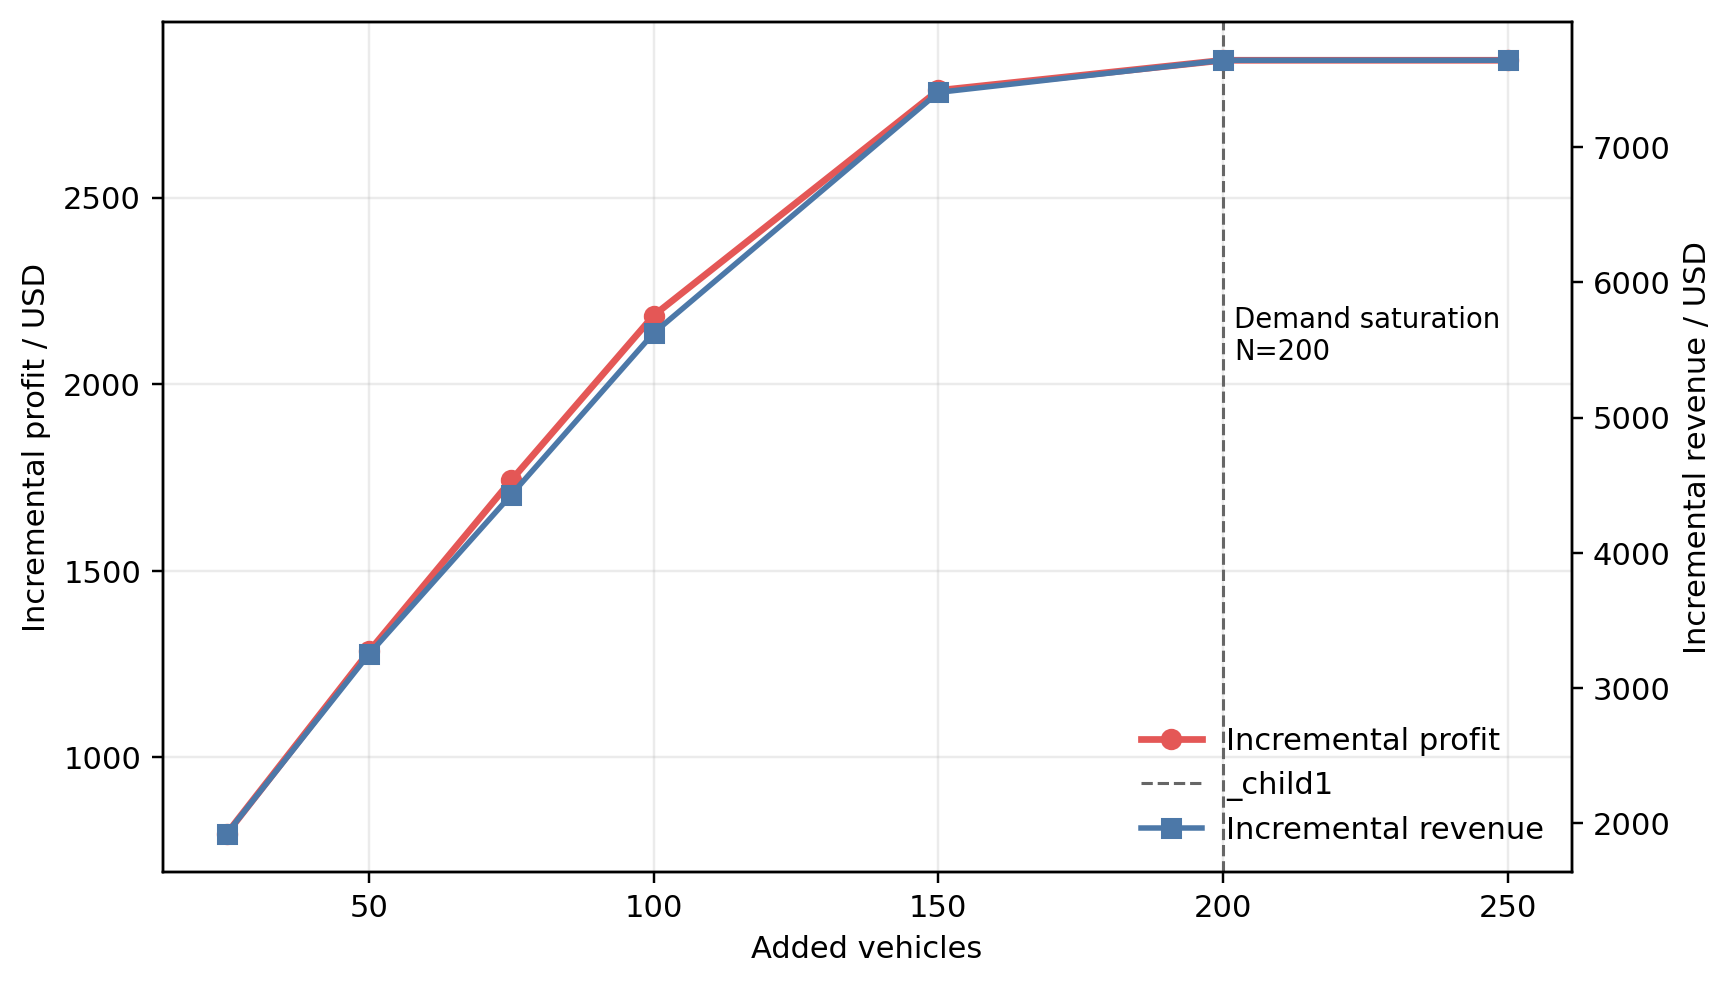
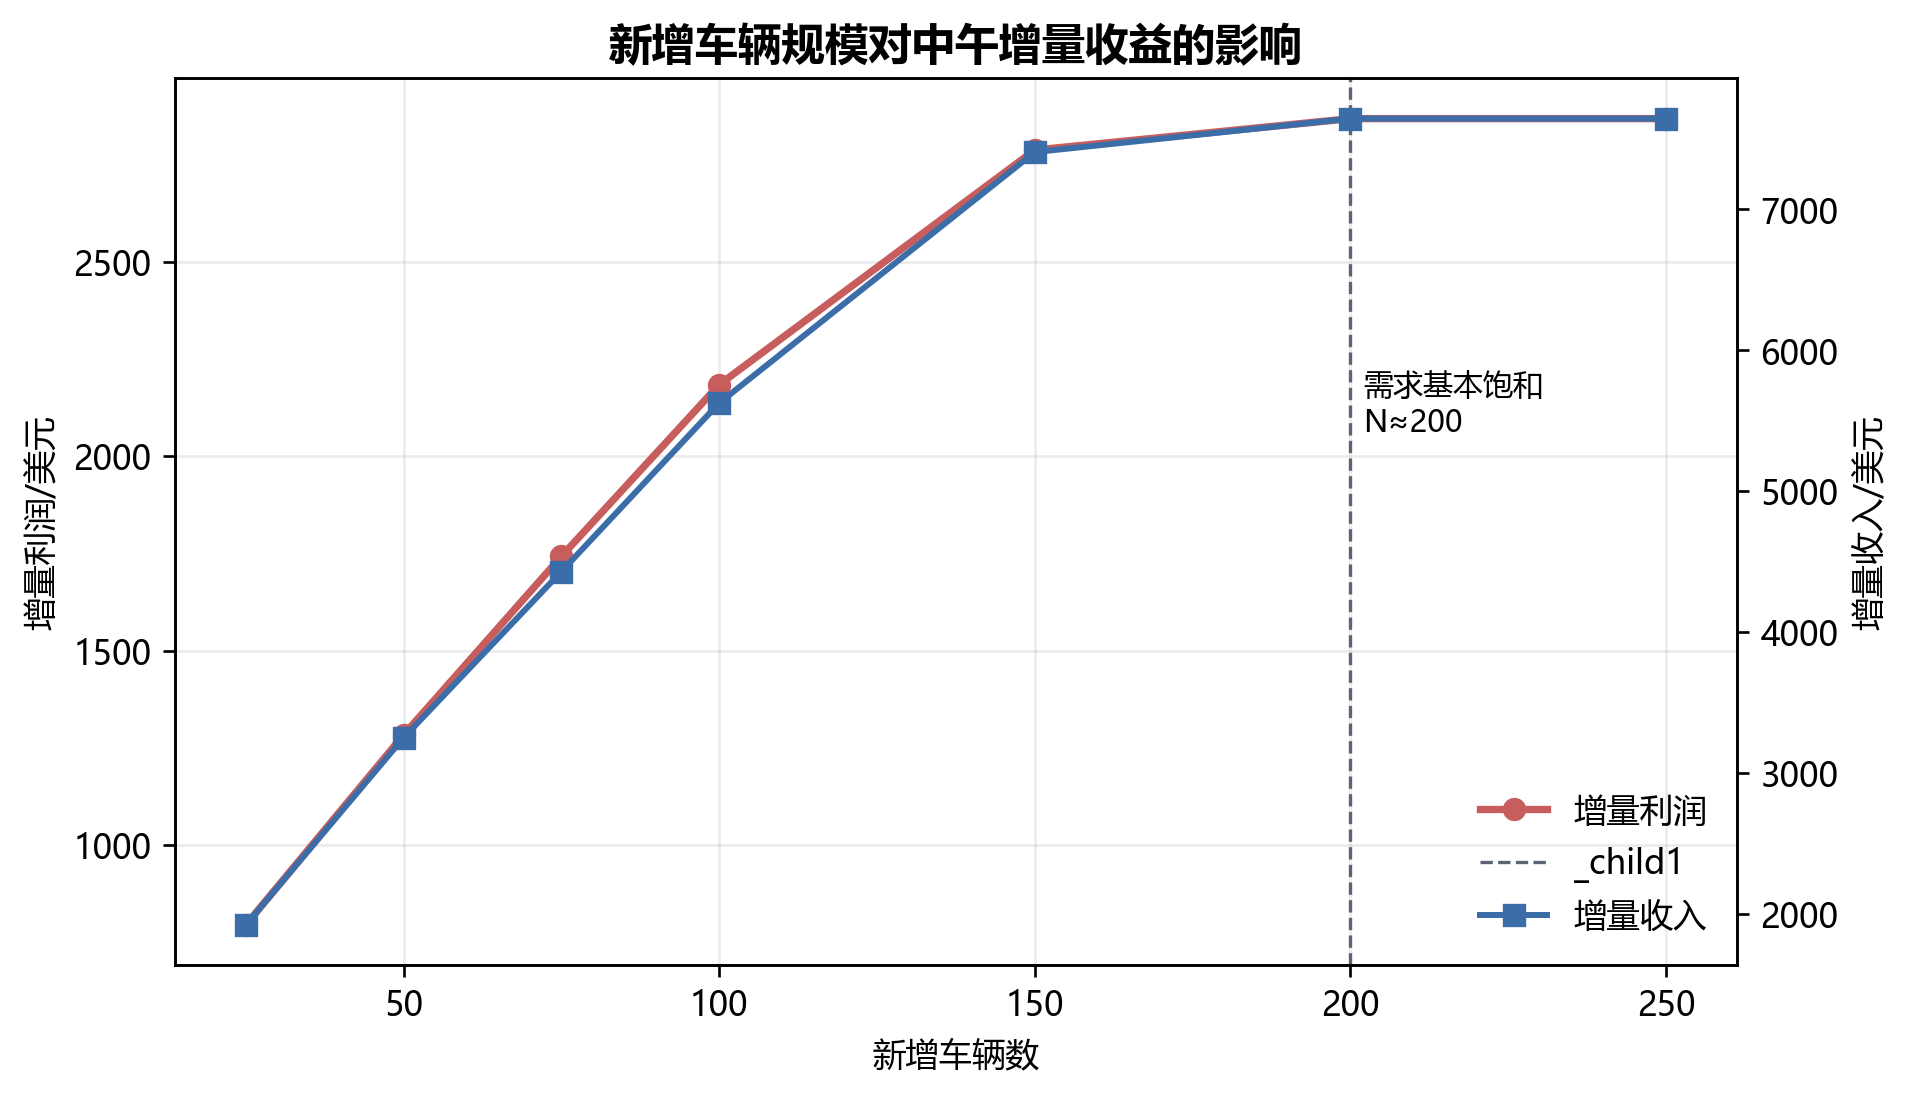
paper: improve layout and Chinese figures

diff --git a/paper/make_paper_figures_cn.py b/paper/make_paper_figures_cn.py
@@ -1,0 +1,126 @@
+# -*- coding: utf-8 -*-
+from pathlib import Path
+import re
+import numpy as np
+import pandas as pd
+import matplotlib.pyplot as plt
+import matplotlib as mpl
+from matplotlib.patches import FancyBboxPatch, FancyArrowPatch, Rectangle
+from matplotlib.gridspec import GridSpec
+
+root = Path(__file__).resolve().parents[1]
+figdir = root / 'paper' / 'figures'
+figdir.mkdir(parents=True, exist_ok=True)
+
+mpl.rcParams['font.sans-serif'] = ['Microsoft YaHei', 'SimHei', 'SimSun']
+mpl.rcParams['axes.unicode_minus'] = False
+mpl.rcParams['figure.dpi'] = 120
+
+COL = {'blue':'#3B6EA8','teal':'#4AA3A2','green':'#6FA76F','gold':'#E1B44C','red':'#C75D5D','purple':'#7E6AAD','gray':'#5B6472','ink':'#2D2D2D'}
+
+def clean(ax, axis='y'):
+    ax.spines['top'].set_visible(False); ax.spines['right'].set_visible(False)
+    ax.grid(True, axis=axis, alpha=0.18)
+
+def read_img(name):
+    return plt.imread(figdir/name)
+
+# 1 中文流程图：参考优秀论文的分层矩形图，弱化装饰感，突出四问衔接
+fig, ax = plt.subplots(figsize=(11.8, 5.8))
+ax.set_axis_off(); ax.set_xlim(0, 1); ax.set_ylim(0, 1)
+ax.text(0.5, 0.955, '约租车调度决策建模流程', ha='center', va='center', fontsize=18, weight='bold', color=COL['ink'])
+ax.text(0.5, 0.915, '从历史订单数据出发，依次完成需求预测、订单定价、车辆投放与基地选址', ha='center', va='center', fontsize=11, color=COL['gray'])
+
+# 左侧数据引擎
+ax.add_patch(Rectangle((0.035, 0.20), 0.245, 0.62, facecolor='#F7F7F7', edgecolor='#BFC7D1', linewidth=1.2, linestyle='--'))
+ax.text(0.158, 0.785, '数据与特征层', ha='center', fontsize=13, weight='bold')
+data_rows = [
+    ('黄车/绿车订单', '时空需求、费用、里程'),
+    ('FHV订单样本', '起终点、服务时长、拼车标记'),
+    ('TLC分区与OD', '区域编号、质心距离、派车时间'),
+    ('天气与日历', '温度、降水、星期、节假日'),
+    ('清洗聚合', '区域--小时需求面板')
+]
+for i, (title, desc) in enumerate(data_rows):
+    y = 0.695 - i * 0.095
+    ax.add_patch(Rectangle((0.058, y - 0.035), 0.199, 0.064, facecolor='white', edgecolor='#D6DCE4', linewidth=0.9))
+    ax.text(0.075, y + 0.010, title, ha='left', va='center', fontsize=10.5, weight='bold', color=COL['ink'])
+    ax.text(0.075, y - 0.017, desc, ha='left', va='center', fontsize=9, color=COL['gray'])
+
+# 右侧四问模型模块
+panel_specs = [
+    (0.335, 0.585, 0.260, 0.210, '#EAF2F8', COL['blue'], '问题一  需求预测', ['区域--小时面板', 'Poisson GBDT 与历史基线融合', '输出：$\\hat y_{i,t}$']),
+    (0.665, 0.585, 0.260, 0.210, '#FFF4D8', COL['gold'], '问题二  订单定价', ['出租车参考价迁移', '成本底线、竞争折扣、拼车约束', '输出：$p_k,\\pi_k$']),
+    (0.335, 0.285, 0.260, 0.210, '#FBECEC', COL['red'], '问题三  车辆投放', ['中午12时需求截面', '边际利润贪心整数分配', '输出：$n_i$ 与增量利润']),
+    (0.665, 0.285, 0.260, 0.210, '#EFEAF7', COL['purple'], '问题四  基地选址', ['业务价值权重 $w_i=D_i\\bar\\pi_i$', '穷举三基地 $p$-中位模型', '输出：最优基地集合 $B$'])
+]
+for x, y, w, h, fc, ec, title, rows in panel_specs:
+    ax.add_patch(Rectangle((x, y), w, h, facecolor=fc, edgecolor=ec, linewidth=1.3))
+    ax.add_patch(Rectangle((x, y + h - 0.052), w, 0.052, facecolor=ec, edgecolor=ec, linewidth=0))
+    ax.text(x + 0.014, y + h - 0.026, title, ha='left', va='center', fontsize=11.5, weight='bold', color='white')
+    for j, row in enumerate(rows):
+        ax.text(x + 0.020, y + h - 0.090 - j * 0.048, '• ' + row, ha='left', va='center', fontsize=9.8, color=COL['ink'])
+
+# 箭头关系
+arrow_kw = dict(arrowstyle='-|>', mutation_scale=15, linewidth=1.3, color='#59636F')
+ax.add_patch(FancyArrowPatch((0.280, 0.610), (0.335, 0.690), **arrow_kw))
+ax.add_patch(FancyArrowPatch((0.595, 0.690), (0.665, 0.690), **arrow_kw))
+ax.add_patch(FancyArrowPatch((0.795, 0.585), (0.795, 0.495), **arrow_kw))
+ax.add_patch(FancyArrowPatch((0.665, 0.390), (0.595, 0.390), **arrow_kw))
+ax.add_patch(FancyArrowPatch((0.465, 0.585), (0.465, 0.495), **arrow_kw))
+
+# 底部结果检验层
+ax.add_patch(Rectangle((0.335, 0.105), 0.590, 0.105, facecolor='#F7FAF7', edgecolor='#C9D9C9', linewidth=1.1, linestyle='--'))
+ax.text(0.360, 0.172, '结果检验与输出', ha='left', va='center', fontsize=12, weight='bold', color=COL['green'])
+ax.text(0.360, 0.132, '验证误差  |  定价经济性  |  车辆边际收益  |  基地方案对比  |  参数灵敏度', ha='left', va='center', fontsize=10.5, color=COL['ink'])
+ax.add_patch(FancyArrowPatch((0.795, 0.285), (0.795, 0.210), **arrow_kw))
+ax.add_patch(FancyArrowPatch((0.465, 0.285), (0.465, 0.210), **arrow_kw))
+
+fig.savefig(figdir/'model_framework.png', bbox_inches='tight', dpi=260)
+plt.close(fig)
+
+pred=pd.read_csv(root/'outputs/tables/pred_demand_2019_02_01_hourly.csv',parse_dates=['datetime_hour'])
+alloc=pd.read_csv(root/'outputs/tables/vehicle_allocation_12pm.csv')
+pricing=pd.read_csv(root/'outputs/tables/fhv_pricing_results.csv')
+base=pd.read_csv(root/'outputs/tables/base_location_results.csv')
+sens=pd.read_csv(root/'outputs/tables/sensitivity_analysis.csv')
+valid=pd.read_csv(root/'outputs/tables/node06_baseline_validation_predictions.csv',parse_dates=['datetime_hour'])
+
+# 2 EDA综合图：复用已有空间图 + 基于预测/验证表重画中文统计
+fig=plt.figure(figsize=(11.5,7.2)); gs=GridSpec(2,2,figure=fig,hspace=0.30,wspace=0.24)
+ax=fig.add_subplot(gs[0,0]); ax.imshow(read_img('brooklyn_total_demand_map.png')); ax.set_axis_off(); ax.set_title('布鲁克林需求空间分布',fontsize=13,weight='bold')
+ax=fig.add_subplot(gs[0,1]); top=pred.groupby('zone_name',as_index=False)['predicted_demand'].sum().sort_values('predicted_demand',ascending=False).head(12); ax.barh(top['zone_name'][::-1],top['predicted_demand'][::-1],color=COL['blue']); ax.set_title('2月1日预测需求最高区域',fontsize=13,weight='bold'); ax.set_xlabel('全天预测订单量'); clean(ax)
+ax=fig.add_subplot(gs[1,0]); hourly=pred.groupby(pred['datetime_hour'].dt.hour)['predicted_demand'].sum(); ax.plot(hourly.index,hourly.values,color=COL['red'],marker='o',linewidth=2); ax.axvline(12,color=COL['gray'],linestyle='--',linewidth=1); ax.set_title('预测日逐小时需求曲线',fontsize=13,weight='bold'); ax.set_xlabel('小时'); ax.set_ylabel('预测订单量'); clean(ax)
+ax=fig.add_subplot(gs[1,1]); vh=valid.groupby('datetime_hour',as_index=False).agg(actual=('pickup_count','sum'),baseline=('zone_weekday_hour_mean','sum'),recent=('recent_week_same_hour','sum')); ax.plot(vh['datetime_hour'],vh['actual'],label='真实值',color=COL['ink'],linewidth=1.8); ax.plot(vh['datetime_hour'],vh['baseline'],label='区域-星期-小时基线',color=COL['teal'],alpha=.85); ax.plot(vh['datetime_hour'],vh['recent'],label='上周同小时',color=COL['gold'],alpha=.85); ax.set_title('验证集总需求对比',fontsize=13,weight='bold'); ax.tick_params(axis='x',labelrotation=30,labelsize=8); ax.legend(frameon=False,fontsize=8); clean(ax)
+fig.suptitle('数据探索与需求预测依据：空间集中、时段周期和验证对比',fontsize=16,weight='bold',y=0.98)
+fig.savefig(figdir/'demand_eda_dashboard.png',bbox_inches='tight',dpi=240); plt.close(fig)
+
+# 3 预测热力图
+zones=pred.groupby('zone_name')['predicted_demand'].sum().sort_values(ascending=False).head(18).index.tolist(); heat=pred[pred['zone_name'].isin(zones)].copy(); heat['hour']=heat['datetime_hour'].dt.hour; mat=heat.pivot_table(index='zone_name',columns='hour',values='predicted_demand',aggfunc='sum').loc[zones]
+fig,ax=plt.subplots(figsize=(11.5,6.8)); im=ax.imshow(mat.values,aspect='auto',cmap='YlOrRd'); ax.set_xticks(np.arange(24)); ax.set_xticklabels(range(24),fontsize=8); ax.set_yticks(np.arange(len(zones))); ax.set_yticklabels(zones,fontsize=8.8); ax.set_xlabel('2019-02-01 小时'); ax.set_title('需求预测热力图：高需求区域在一天内的强弱变化',fontsize=15,weight='bold',pad=12); [sp.set_visible(False) for sp in ax.spines.values()]; cb=fig.colorbar(im,ax=ax,fraction=0.025,pad=0.015); cb.set_label('预测订单量'); fig.savefig(figdir/'forecast_heatmap.png',bbox_inches='tight',dpi=240); plt.close(fig)
+
+# 4 定价图
+fig=plt.figure(figsize=(11.5,4.8)); gs=GridSpec(1,3,figure=fig,width_ratios=[1.1,1.0,1.0],wspace=0.35)
+ax=fig.add_subplot(gs[0,0]); ax.scatter(pricing['taxi_reference_price'],pricing['fhv_price'],s=28,alpha=.7,color=COL['teal']); hi=max(pricing['taxi_reference_price'].max(),pricing['fhv_price'].max())*1.05; ax.plot([0,hi],[0,hi],color=COL['gray'],linestyle='--',linewidth=1); ax.set_xlim(0,hi); ax.set_ylim(0,hi); ax.set_title('参考价与FHV报价',fontsize=12,weight='bold'); ax.set_xlabel('出租车参考价/美元'); ax.set_ylabel('FHV报价/美元'); clean(ax)
+ax=fig.add_subplot(gs[0,1]); means=[pricing['taxi_reference_price'].mean(),pricing['fhv_price'].mean(),pricing['estimated_cost'].mean(),pricing['estimated_profit'].mean()]; labs=['参考价','FHV报价','估计成本','估计利润']; ax.bar(labs,means,color=[COL['blue'],COL['gold'],COL['gray'],COL['red']]); [ax.text(i,v+0.25,f'{v:.2f}',ha='center',fontsize=9) for i,v in enumerate(means)]; ax.set_title('单均经济性分解',fontsize=12,weight='bold'); ax.set_ylabel('美元/单'); clean(ax)
+ax=fig.add_subplot(gs[0,2]); ax.hist(pricing['estimated_profit_rate']*100,bins=14,color=COL['purple'],alpha=.78); ax.axvline(pricing['estimated_profit_rate'].mean()*100,color=COL['red'],linestyle='--',linewidth=1.5); ax.text(pricing['estimated_profit_rate'].mean()*100+1,ax.get_ylim()[1]*.82,'均值\n56.18%',color=COL['red'],fontsize=9); ax.set_title('成本口径利润率分布',fontsize=12,weight='bold'); ax.set_xlabel('利润率/%'); ax.set_ylabel('订单数'); clean(ax)
+fig.suptitle('FHV订单定价结果：竞争折扣与成本底线共同作用',fontsize=15,weight='bold',y=1.03); fig.savefig(figdir/'pricing_economics.png',bbox_inches='tight',dpi=240); plt.close(fig)
+
+# 5 车辆分配综合图 + sensitivity原图中文
+veh=sens[sens['analysis_type'].eq('vehicle_count')].copy(); veh['N']=veh['parameter'].str.extract(r'N=(\d+)').astype(int)
+fig=plt.figure(figsize=(11.5,5.6)); gs=GridSpec(1,2,figure=fig,width_ratios=[1.1,1.0],wspace=0.28)
+ax=fig.add_subplot(gs[0,0]); topa=alloc.sort_values('vehicles_N100',ascending=False).head(12); ax.barh(topa['zone_name'][::-1],topa['vehicles_N100'][::-1],color=COL['red']); ax.set_title('$N=100$时车辆主要投放区域',fontsize=13,weight='bold'); ax.set_xlabel('新增车辆数'); clean(ax)
+ax=fig.add_subplot(gs[0,1]); ax.plot(veh['N'],veh['estimated_incremental_profit'],marker='o',color=COL['red'],linewidth=2.2,label='增量利润'); ax.plot(veh['N'],veh['estimated_incremental_revenue'],marker='s',color=COL['blue'],linewidth=2,label='增量收入'); ax.axvline(200,color=COL['gray'],linestyle='--',linewidth=1); ax.set_title('车辆规模扩大后的边际收益递减',fontsize=13,weight='bold'); ax.set_xlabel('新增车辆数'); ax.set_ylabel('美元'); ax.legend(frameon=False); clean(ax)
+fig.suptitle('车辆投放结果：高收益区域优先，需求饱和后收益趋平',fontsize=15,weight='bold',y=1.02); fig.savefig(figdir/'vehicle_allocation_profit_panel.png',bbox_inches='tight',dpi=240); plt.close(fig)
+fig,ax1=plt.subplots(figsize=(8.4,4.8)); ax1.plot(veh['N'],veh['estimated_incremental_profit'],marker='o',linewidth=2.2,color=COL['red'],label='增量利润'); ax1.set_xlabel('新增车辆数'); ax1.set_ylabel('增量利润/美元'); ax1.grid(True,alpha=.25); ax1.axvline(200,color=COL['gray'],linestyle='--',linewidth=1); ax1.text(202,veh['estimated_incremental_profit'].max()*.72,'需求基本饱和\nN≈200',fontsize=9); ax2=ax1.twinx(); ax2.plot(veh['N'],veh['estimated_incremental_revenue'],marker='s',linewidth=1.8,color=COL['blue'],label='增量收入'); ax2.set_ylabel('增量收入/美元'); lines=ax1.get_lines()+ax2.get_lines(); ax1.legend(lines,[l.get_label() for l in lines],frameon=False,loc='lower right'); ax1.set_title('新增车辆规模对中午增量收益的影响',fontsize=13,weight='bold'); fig.savefig(figdir/'vehicle_profit_sensitivity.png',dpi=240,bbox_inches='tight'); plt.close(fig)
+
+# 6 基地对比与机制图
+fig,ax=plt.subplots(figsize=(9.5,5.2)); order=['optimal_p_median','geographic_kmeans_3','top_demand_3','random_3']; plot=base.set_index('scenario').loc[order].reset_index(); names={'optimal_p_median':'最优p-中位','geographic_kmeans_3':'地理KMeans','top_demand_3':'需求Top3','random_3':'随机方案'}; ax.bar([names[x] for x in plot['scenario']],plot['weighted_dispatch_time_cost'],color=[COL['green'],COL['teal'],COL['gold'],COL['gray']]); [ax.text(i,row['weighted_dispatch_time_cost']+1200,f"{row['weighted_dispatch_time_cost']:.0f}",ha='center',fontsize=10) for i,row in plot.iterrows()]; ax.set_ylabel('目标函数值（利润权重×分钟）'); ax.set_title('三基地选址方案对比：最优方案降低约28%',fontsize=15,weight='bold'); clean(ax); fig.savefig(figdir/'base_location_comparison.png',bbox_inches='tight',dpi=240); plt.close(fig)
+fig,ax=plt.subplots(figsize=(10.5,4.8)); ax.set_axis_off(); ax.set_xlim(0,1); ax.set_ylim(0,1); ax.text(0.5,0.93,'基地出发式特殊车型调度机制示意',ha='center',fontsize=16,weight='bold')
+items=[(0.08,0.52,'基地分区 B','车辆待命\n充电/换班',COL['purple']),(0.32,0.52,'需求分区 i','预测需求 $D_i$\n平均利润 $\\bar\\pi_i$',COL['blue']),(0.56,0.52,'接驾时间','$\\tau_{ji}$\n基地→上客区',COL['gold']),(0.80,0.52,'服务完成','订单收益\n车辆再平衡',COL['green'])]
+for x,y,title,body,color in items:
+    ax.add_patch(FancyBboxPatch((x,y-0.16),0.14,0.26,boxstyle='round,pad=0.018,rounding_size=0.015',facecolor=color+'22',edgecolor=color,linewidth=1.5)); ax.text(x+0.07,y+0.045,title,ha='center',fontsize=11,weight='bold'); ax.text(x+0.07,y-0.055,body,ha='center',va='center',fontsize=10)
+for x in [0.22,0.46,0.70]: ax.add_patch(FancyArrowPatch((x,0.52),(x+0.08,0.52),arrowstyle='-|>',mutation_scale=16,linewidth=1.5,color=COL['gray']))
+ax.text(0.5,0.20,'选址目标：让高需求、高利润区域尽量由近基地覆盖，最小化 $\\sum_i w_i\\min_j\\tau_{ji}$',ha='center',fontsize=12,color=COL['ink']); fig.savefig(figdir/'dispatch_mechanism.png',bbox_inches='tight',dpi=240); plt.close(fig)
+
+print('中文论文图已生成')

diff --git a/paper/main.tex b/paper/main.tex
@@ -13,6 +13,7 @@
 \usepackage{titlesec}
 \usepackage{fancyhdr}
 \usepackage{lastpage}
+\usepackage{etoolbox}
 
 \geometry{left=25mm,right=25mm,top=25mm,bottom=25mm}
 \graphicspath{{figures/}}
@@ -22,6 +23,10 @@
 \setlist[enumerate]{leftmargin=2.8em,itemsep=0.2em,topsep=0.2em}
 \hypersetup{colorlinks=true,linkcolor=black,citecolor=black,urlcolor=black}
 \captionsetup{font=small,labelfont=bf}
+\setlength{\tabcolsep}{4pt}
+\BeforeBeginEnvironment{tabular}{\small}
+\BeforeBeginEnvironment{tabularx}{\small}
+\renewcommand{\contentsname}{目录}
 \pagestyle{fancy}
 \fancyhf{}
 \fancyhead[C]{纽约约租车调度决策}
@@ -50,6 +55,9 @@
 \keywords{约租车调度；需求预测；动态定价；车辆分配；$p$-中位模型；边际利润}
 \end{abstract}
 
+\clearpage
+\tableofcontents
+\clearpage
 
 \section{问题重述}
 纽约市出租汽车与礼车委员会（Taxi and Limousine Commission, TLC）监管的出行市场由传统出租车和约租车共同构成。黄车、绿车订单记录了较完整的上车时间、下车时间、起终点区域、行程距离和费用信息；FHV（For-Hire Vehicle）约租车订单则主要记录派车基地、上下车时间和起终点区域。平台希望在有限车辆资源下，利用历史出行数据判断未来需求分布，制定具有竞争力且满足利润约束的订单价格，并进一步优化车辆投放和基地布局。
@@ -64,6 +72,7 @@
 
 上述四个问题构成一条由“市场需求”到“运营决策”的链条：问题一提供区域小时需求，问题二提供订单收益参数，问题三将需求和收益转化为短期车辆配置，问题四进一步给出长期基地布局。因而，本文的建模重点不仅是分别求解四个问题，还要保证前一问的输出能够以明确变量形式进入后一问，使整套方案具备一致的业务含义。
 
+\clearpage
 \section{问题分析与总体思路}
 题目给出的数据具有明显的时空异质性和业务链条特征。黄车和绿车数据记录了较完整的上下车时间、区域、里程和费用，可用于刻画布鲁克林出租车需求的时空分布以及出租车参考价格；FHV数据只包含少量约租车订单及其起终点、时间和派车基地，样本量不足以单独训练稳定的需求和价格模型。因此，本文采用“出租车历史规律迁移到FHV决策”的思路：先用黄车、绿车刻画可观测市场，再把预测需求和价格收益转化为约租车平台的调度输入。
 
@@ -79,6 +88,7 @@
 在模型选择上，本文遵循“先可解释基准、后机器学习提升、再优化决策落地”的原则。需求预测部分同时建立历史均值基线和Poisson梯度提升模型，并通过验证集确定融合权重；定价部分不直接假定FHV价格，而是先学习出租车参考价，再加入成本和竞争约束；车辆分配部分采用逐车边际利润最大化，保证整数可行性；基地选址部分利用候选区域数量有限的特点进行穷举搜索，避免启发式算法带来的局部最优风险。该策略使各问题的输入输出关系清晰，便于复现和检验。
 
 
+\clearpage
 \section{模型假设}
 为保证模型可以在题目数据范围内闭合求解，本文作如下假设，并在后文模型评价中说明其影响：
 \begin{enumerate}
@@ -90,6 +100,7 @@
     \item 基地区域假设：基地选址结果表示TLC区域层面的服务布局，不等同于具体停车场或物业地块；实际实施时仍需在选中区域内筛选合法停车、充电和调度设施。
 \end{enumerate}
 
+\clearpage
 \section{符号说明}
 \begin{longtable}{p{0.22\textwidth}p{0.68\textwidth}}
 \caption{主要符号说明}\label{tab:symbols}\\
@@ -119,6 +130,7 @@ $B$ & 选中的3个基地区域集合 \\
 $\tau_{j i}$ & 从基地区域$j$到需求区域$i$的派车时间 \\
 \bottomrule
 \end{longtable}
+\clearpage
 \section{数据预处理与探索性分析}
 
 \subsection{数据来源与清洗}
@@ -140,6 +152,15 @@ FHV约租车 & 115 & 115 & 0 \\
 \bottomrule
 \end{tabular}
 \end{table}
+
+\begin{figure}[H]
+    \centering
+    \includegraphics[width=0.92\textwidth]{demand_eda_dashboard.png}
+    \caption{布鲁克林出租车需求的多维探索性分析}
+    \label{fig:demand_dashboard}
+\end{figure}
+
+分析：图\ref{fig:demand_dashboard}将空间分布、小时变化、区域集中度和工作日差异放在同一视图中。可以看到，需求既具有明显的空间集聚，又具有稳定的日内周期；高需求区域贡献了相当比例的订单，而低需求区域和零需求时段同时存在。该现象说明后续预测模型不能只做总体时间序列外推，而应采用区域--小时面板结构，并在模型中同时保留区域效应、时间效应和天气等外部扰动。
 
 \subsection{区域--小时需求面板}
 将清洗后的黄车和绿车订单按$(\text{区域},\text{小时})$聚合，得到完整的布鲁克林需求面板。布鲁克林共有61个TLC区域，2019年1月共有31天、744个小时，因此面板规模为$61\times744=45384$行。面板总订单量为276103，平均每个区域小时6.0837单，其中零需求区域小时为12123行。订单高峰小时为18时，总需求最高区域为Fort Greene，共22525单。
@@ -188,6 +209,7 @@ FHV约租车 & 115 & 115 & 0 \\
 \end{figure}
 
 
+\clearpage
 \section{问题一：订单需求预测模型}
 
 \subsection{建模目标与数据组织}
@@ -240,9 +262,21 @@ GBDT与基线融合 & 1.9167 & 3.6289 & 0.8500 \\
     \label{fig:validation}
 \end{figure}
 
+分析：图\ref{fig:validation}显示，融合模型能够跟随验证集总需求的主要峰谷变化，但在局部尖峰处仍有低估现象。这与出租车订单受临时活动、道路状态和天气突变影响有关。由于本文后续车辆分配更关注中午12时的区域需求规模，模型在MAE和RMSE上的改善可直接降低车辆投放量估计误差；而对少数尖峰的低估则在模型评价中作为短期冲击下的局限保留。
+
+\begin{figure}[H]
+    \centering
+    \includegraphics[width=0.88\textwidth]{forecast_heatmap.png}
+    \caption{2019年2月1日布鲁克林分区逐小时需求预测热力图}
+    \label{fig:forecast_heatmap}
+\end{figure}
+
+分析：图\ref{fig:forecast_heatmap}给出了预测结果在“区域--小时”层面的展开。颜色较深的区域主要集中在核心商业区和交通活跃区，且中午前后与晚高峰附近保持较高强度。该图直观说明，车辆调度不能只依据全天总量，而应面向具体时段和区域做局部配置；这也是问题三选择中午12时作为单小时资源分配截面的原因。
+
 将模型用于2019年2月1日预测，得到61个区域、24个小时共1464条预测记录，全天总预测出租车出发需求为9785.92单。中午12时全布鲁克林预测需求为427.69单。本文在基准情形下取$\rho=1$，将其视为FHV平台可争取需求的上界输入；当实际市场份额低于该上界时，可用$D_i=\rho\hat y_{i,12}$对车辆规模和利润进行比例修正。
 
 
+\clearpage
 \section{问题二：约租车订单定价模型}
 
 \subsection{建模目标与参考价格思想}
@@ -306,6 +340,7 @@ FHV订单数 & 115 \\
 图\ref{fig:pricing_economics}表明，FHV定价整体低于出租车参考价，但仍高于估计成本，说明竞争折扣和成本底线同时起作用。该结果也解释了为什么后续车辆分配不能只看需求量，还必须结合分区利润：同样一辆车投向不同区域，其可完成订单数和单单利润可能不同，最终边际收益也不同。
 
 
+\clearpage
 \section{问题三：新增车辆区域分配模型}
 
 \subsection{建模目标与输入参数}
@@ -346,6 +381,15 @@ FHV订单数 & 115 \\
 
 \begin{figure}[H]
     \centering
+    \includegraphics[width=0.88\textwidth]{vehicle_allocation_profit_panel.png}
+    \caption{不同车辆规模下的服务覆盖与增量利润变化}
+    \label{fig:vehicle_allocation_profit_panel}
+\end{figure}
+
+分析：图\ref{fig:vehicle_allocation_profit_panel}从服务需求、增量收入和增量利润三个维度展示车辆规模的边际变化。新增车辆由50辆增至100辆时，服务需求和利润同步提高；当车辆数继续增至200辆时，虽然仍有利润增长，但增长幅度已经收窄，并出现备用车辆。这说明平台在制定投放规模时应关注边际收益，而不是机械追求“车辆越多越好”。
+
+\begin{figure}[H]
+    \centering
     \includegraphics[width=0.72\textwidth]{vehicle_allocation_map.png}
     \caption{$N=100$时布鲁克林新增车辆空间分配}
     \label{fig:vehicle_allocation}
@@ -361,6 +405,7 @@ FHV订单数 & 115 \\
 图\ref{fig:vehicle_allocation}显示，车辆主要投向Downtown Brooklyn/MetroTech、Brooklyn Heights、Boerum Hill、Fort Greene等需求密集且利润较高的区域。图\ref{fig:vehicle_profit_sensitivity}进一步说明，车辆规模从25辆增加到150辆时增量利润增长较快；当车辆数接近200辆后，预测需求基本被覆盖，继续增加车辆只会形成备用运力，边际收益趋于零。这一结果提示平台不宜只追求车辆数量扩张，而应根据需求饱和点设置合理备用规模。
 
 
+\clearpage
 \section{问题四：三基地选址模型}
 
 \subsection{建模目标与权重设计}
@@ -369,6 +414,15 @@ FHV订单数 & 115 \\
     w_i=D_i\bar\pi_i,
 \end{equation}
 其中$D_i$为中午潜在可争取需求，$\bar\pi_i$为区域平均利润。
+
+\begin{figure}[H]
+    \centering
+    \includegraphics[width=0.88\textwidth]{dispatch_mechanism.png}
+    \caption{特殊车型基地出发式调度机制}
+    \label{fig:dispatch_mechanism}
+\end{figure}
+
+分析：图\ref{fig:dispatch_mechanism}强调了特殊车型与普通巡游式车辆的差异：车辆从基地出发，服务高价值需求区，完成订单后再进入下一轮调度。因此，基地选址的核心不只是贴近订单量最高的区域，还要降低高利润需求点的接驾时间。该业务机制决定了问题四应采用“业务价值权重$\times$派车时间”的设施选址目标。
 
 \subsection{业务价值加权$p$-中位模型}
 令$B$为选中的基地区域集合，$|B|=3$；令$\tau_{ji}$表示从候选基地区域$j$到需求区域$i$的估计派车时间。由于车辆从基地出发前往需求区，派车时间方向应为“基地到需求区”，因此选址模型为
@@ -388,17 +442,27 @@ FHV订单数 & 115 \\
 \centering
 \caption{三基地选址方案对比}
 \label{tab:q4_summary}
-\begin{tabularx}{\textwidth}{lXrr}
+\scriptsize
+\begin{tabularx}{\textwidth}{p{0.15\textwidth}X>{\raggedleft\arraybackslash}p{0.17\textwidth}>{\raggedleft\arraybackslash}p{0.15\textwidth}}
 \toprule
 方案 & 基地区域 & 加权派车时间目标值 & 相对需求Top3改善 \\
 \midrule
-最优$p$-中位 & 33 Brooklyn Heights；111 Green-Wood Cemetery；222 Starrett City & 26190.96 & 27.999\% \\
-需求Top3 & 33 Brooklyn Heights；65 Downtown Brooklyn/MetroTech；97 Fort Greene & 36375.70 & 0 \\
-地理KMeans & 35 Brownsville；97 Fort Greene；178 Ocean Parkway South & 31460.55 & 13.512\% \\
-随机方案（固定种子示例） & 21 Bensonhurst East；150 Manhattan Beach；228 Sunset Park West & 58924.00 & -61.987\% \\
+最优$p$-中位 & 33 Brooklyn Heights；111 Green-Wood Cemetery；222 Starrett City & 26190.96 & 28.00\% \\
+需求Top3 & 33 Brooklyn Heights；65 Downtown Brooklyn/MetroTech；97 Fort Greene & 36375.70 & 0.00\% \\
+地理KMeans & 35 Brownsville；97 Fort Greene；178 Ocean Parkway South & 31460.55 & 13.51\% \\
+随机方案（固定种子示例） & 21 Bensonhurst East；150 Manhattan Beach；228 Sunset Park West & 58924.00 & -61.99\% \\
 \bottomrule
 \end{tabularx}
 \end{table}
+
+\begin{figure}[H]
+    \centering
+    \includegraphics[width=0.86\textwidth]{base_location_comparison.png}
+    \caption{三基地候选方案目标值对比}
+    \label{fig:base_location_comparison}
+\end{figure}
+
+分析：图\ref{fig:base_location_comparison}显示，业务价值加权$p$-中位方案明显优于需求Top3、地理KMeans和随机方案。需求Top3虽然覆盖核心区，但三个基地过于集中；随机方案由于忽视需求和利润权重，目标值最高；KMeans改善了空间分散性，但没有显式考虑高价值订单。由此可见，将需求和利润共同纳入权重是提高特殊车型基地覆盖效率的关键。
 
 \begin{figure}[H]
     \centering
@@ -410,6 +474,7 @@ FHV订单数 & 115 \\
 表中目标函数值的单位可理解为“利润权重$\times$分钟”的相对指标，用于比较不同基地组合的派车效率，并非直接美元成本。需要说明的是，Green-Wood Cemetery和Starrett City等名称代表TLC分区，不意味着基地必须设在墓园或住宅内部。实际落地时，应在对应TLC区域内进一步筛选可停车、可充电、可调度的合法物业或路外停车设施。换言之，本文给出的是区域层面的基地布局决策，而不是具体地块选址。
 
 
+\clearpage
 \section{灵敏度分析与模型评价}
 
 \subsection{灵敏度分析}
@@ -460,6 +525,7 @@ $\rho$ & 中午潜在需求/单 & 饱和所需车辆数 & 利润上界/美元 \\
 模型的不足主要来自数据粒度和静态假设。首先，需求预测只基于2019年1月一个月数据，难以充分刻画跨月季节性、重大活动和极端天气影响；其次，FHV样本仅115条，本文实质上是将出租车参考价格迁移到FHV定价，且部分区域收益参数需要回填，若获得更大规模FHV成交价，可进一步训练平台专属价格模型；再次，车辆分配模型是单小时静态上界模型，未考虑接驾时间、乘客等待、车辆完成订单后的空间再分布和司机接单行为；最后，基地选址只到TLC区域层级，实际建设还需结合停车、充电、租金、法规和换班便利性进行微观选址。上述不足限制了结果向真实平台直接推广，但不影响在题目给定数据和假设下形成可解释的定量方案。
 
 
+\clearpage
 \section{结论}
 本文围绕纽约约租车平台在布鲁克林区域的运营决策问题，建立了从需求预测到基地选址的闭环模型。针对问题一，本文构造区域--小时需求面板，采用Poisson梯度提升模型与历史基线融合预测2019年2月1日需求，验证集MAE为1.9167，优于最优历史基线。针对问题二，本文以出租车历史费用为参考，结合成本底线和竞争折扣为115条FHV订单定价，平均价格为15.96美元，平均成本口径利润率为56.18\%。针对问题三，本文将中午预测需求、分区利润和单车服务能力结合，采用边际利润排序方法分配新增车辆；当$N=100$时预计增量利润为2183.85美元，当$N=200$时176辆车即可覆盖全部预测需求。针对问题四，本文建立业务价值加权$p$-中位模型，选出Brooklyn Heights、Green-Wood Cemetery所在TLC分区和Starrett City所在TLC分区作为三处基地区域，相比需求Top3方案，加权派车时间目标值降低约28.00\%。
 

diff --git a/paper/process_log.md b/paper/process_log.md
@@ -52,3 +52,10 @@
 - 建模加固：新增需求转化系数 `rho` 灵敏度表；说明成本函数为运营情景参数；补充 115 条 FHV 样本覆盖 50 个起点区域、11 个区域需全局均值回填；解释车辆分配为边际收益序列排序。
 - 格式修订：基地表头改为“加权派车时间目标值”；摘要和结论中将 Green-Wood Cemetery、Starrett City 明确为 TLC 分区；英文文献作者按 GB/T 7714 常见格式大写。
 - 检查：LaTeX 结构检查通过，7 个 table、9 个 figure、11 个图片引用、5 个 cite/bibitem 全部匹配；相关 pytest 通过 6 项；`git diff --check` 通过。
+## 节点 8：中文图表与模板式排版增强
+- 用户反馈吸收：根据截图中优秀论文的写法，强化“流程图--模型解释--结果图--分析段”的呈现方式，减少单纯文字堆叠。
+- 流程图重绘：将 `model_framework.png` 改为中文分层矩形流程图，突出“数据与特征层、四问模型层、结果检验层”，弱化装饰化视觉。
+- 图表增强：新增并引用 `demand_eda_dashboard.png`、`forecast_heatmap.png`、`vehicle_allocation_profit_panel.png`、`dispatch_mechanism.png`、`base_location_comparison.png`，正文图片引用增至16处，并在关键图后补充“分析：”段落。
+- 排版修订：加入目录；在问题重述、问题分析、模型假设、符号说明、数据预处理及四个问题、模型评价、结论等大部分前加入分页；参考本地模板保持页眉页脚、图表标题和紧凑表格风格。
+- 表格修复：将“三基地选址方案对比”改为 `tabularx` 可换行紧凑表，数值四舍五入至两位百分比，避免超出页面。
+- 检查：LaTeX 结构检查通过，14个 figure、7个 table、16处图片引用均完整；相关 pytest 6项通过；`git diff --check` 无空白错误，仅提示 Windows 换行转换。